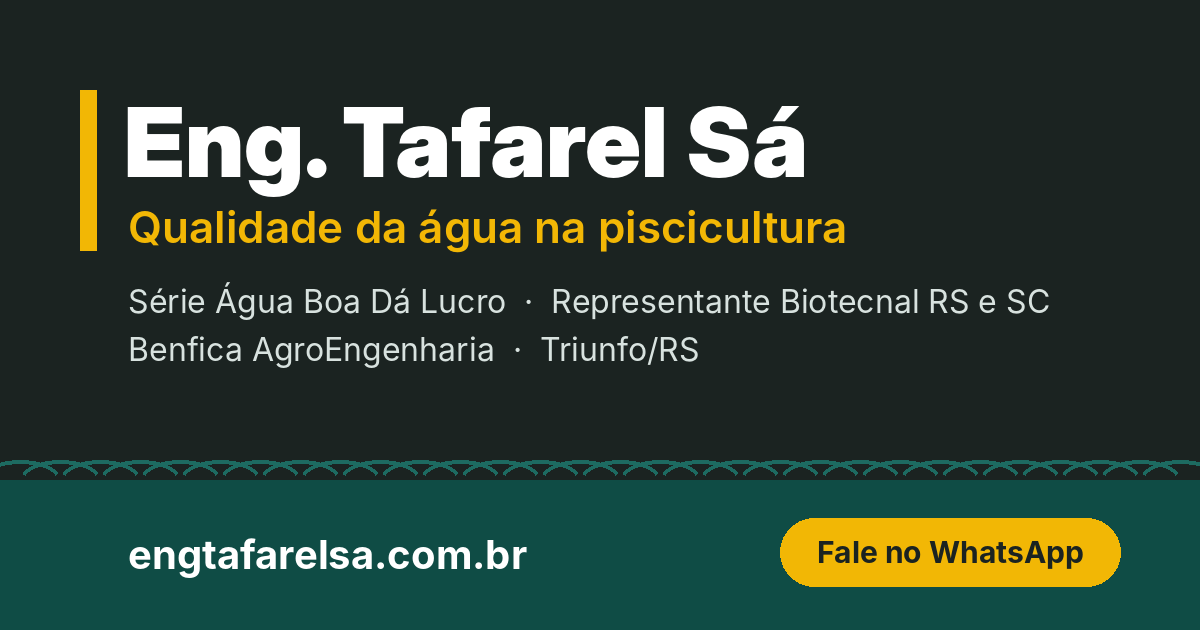
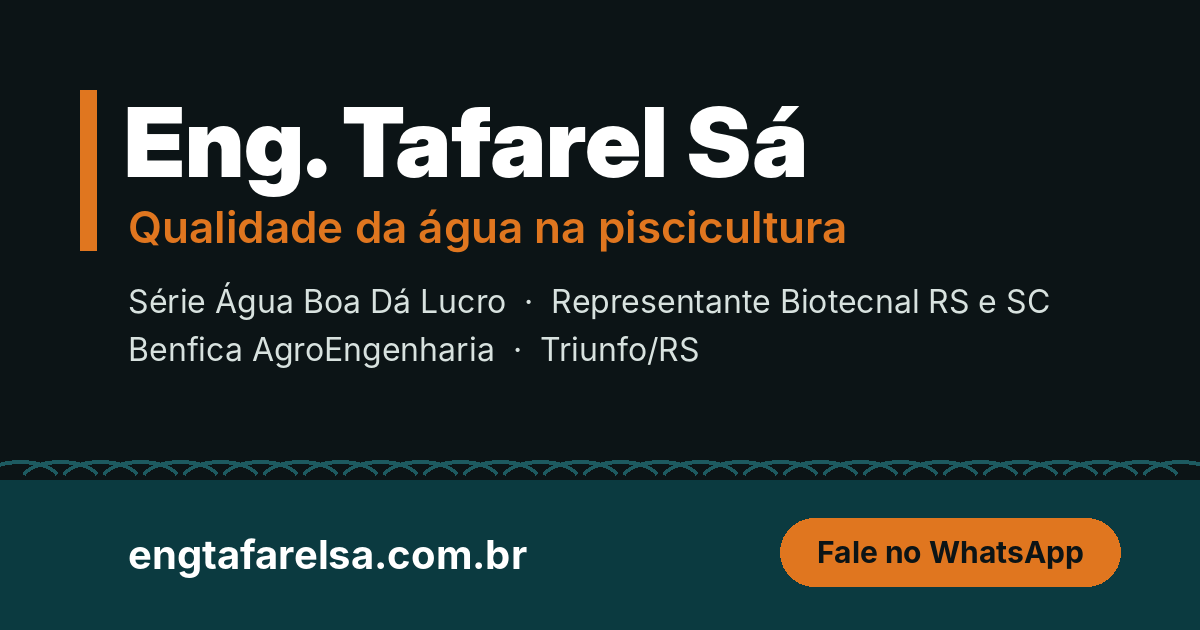
Nova paleta Premium noturno: laranja Biotecnal, creme e água funda; imagem de compartilhamento atualizada
Claude-Session: https://claude.ai/code/session_01UrUJhJswZr6S4F366Tj8NM

Changed region(s): [[0.0617, 0.1206, 0.7092, 0.4222], [0.6475, 0.8143, 0.9558, 0.9349]]

diff --git a/assets/site.css b/assets/site.css
@@ -1,18 +1,18 @@
-/* Eng. Tafarel Sá — site de vendas
-   Paleta: água de viveiro, manta de geomembrana, lona amarela de campo. */
+/* Eng. Tafarel Sá — site de vendas */
 :root {
-  --agua: #0f4c45;
-  --agua-clara: #d8e6e1;
-  --manta: #1b2321;
-  --campo: #f3f5f1;
-  --papel: #ffffff;
-  --lona: #f2b705;
-  --lona-escura: #c99500;
+  /* Paleta "Premium noturno": água funda, creme e o laranja da Biotecnal só onde se clica. */
+  --agua: #0b3a40;
+  --agua-clara: #e7e1d6;
+  --manta: #0c1416;
+  --campo: #f6f2ea;
+  --papel: #fbf8f2;
+  --lona: #e0761f;
+  --lona-escura: #f08a3a;
   --folha: #3e7a3a;
-  --texto: #1e2623;
-  --texto-suave: #4d5a56;
-  --linha: #c9d3cf;
-  --pendente: #fff1c2;
+  --texto: #1a1f1f;
+  --texto-suave: #4f5654;
+  --linha: #d9d1c3;
+  --pendente: #fbe3cc;
 
   --fonte-titulo: "Archivo", "Arial Narrow", system-ui, sans-serif;
   --fonte-texto: "Atkinson Hyperlegible", system-ui, sans-serif;
@@ -432,7 +432,7 @@ p { margin: 0 0 1em; max-width: var(--medida); }
 @media (max-width: 820px) { .calc-grade { grid-template-columns: 1fr; } }
 .calc { display: grid; gap: 6px; background: var(--papel); border: 1px solid var(--linha); padding: 22px; border-radius: var(--raio); }
 .calc label { font-weight: 700; margin-top: 10px; }
-.calc input, .calc select { font: inherit; padding: 12px; border: 1px solid var(--linha); border-radius: var(--raio); background: #fff; color: var(--texto); width: 100%; }
+.calc input, .calc select { font: inherit; padding: 12px; border: 1px solid var(--linha); border-radius: var(--raio); background: var(--papel); color: var(--texto); width: 100%; }
 .calc-resultado { display: grid; gap: 14px; }
 .calc-vol { font-size: 1.3rem; margin: 0; }
 .artigo ol, .artigo ul { max-width: var(--medida); }
@@ -491,7 +491,7 @@ legend.p-passo { padding: 0; }
 .p-grupo[hidden], #p-comum[hidden] { display: none; }
 .p-campo { display: grid; gap: 6px; }
 .p-campo > label, .p-campo legend { font-weight: 700; padding: 0; }
-.p-campo input, .p-campo textarea { font: inherit; padding: 12px; border: 1px solid var(--linha); border-radius: var(--raio); background: #fff; color: var(--texto); width: 100%; }
+.p-campo input, .p-campo textarea { font: inherit; padding: 12px; border: 1px solid var(--linha); border-radius: var(--raio); background: var(--papel); color: var(--texto); width: 100%; }
 .p-chips { display: flex; flex-wrap: wrap; gap: 8px; margin-top: 4px; }
 .p-chip { cursor: pointer; position: relative; }
 .p-chip span { display: inline-block; padding: 10px 14px; border: 1.5px solid var(--linha); border-radius: 999px; background: var(--papel); min-height: 44px; }
@@ -556,7 +556,7 @@ img.foto { width: 100%; height: auto; border-radius: var(--raio); object-fit: co
 
 /* Biotecnal: selos e portfólio */
 .selos { list-style: none; padding: 0; margin: 20px 0; display: grid; grid-template-columns: repeat(auto-fit, minmax(150px, 1fr)); gap: 10px; }
-.selos li { border: 1px solid var(--linha); background: #fff; border-radius: var(--raio); padding: 10px 14px; display: flex; flex-direction: column; }
+.selos li { border: 1px solid var(--linha); background: var(--papel); border-radius: var(--raio); padding: 10px 14px; display: flex; flex-direction: column; }
 .selos strong { font-family: var(--fonte-titulo); color: var(--agua); font-size: 1.05rem; }
 .selos span { color: var(--texto-suave); font-size: .9rem; }
 .divisoes { display: grid; grid-template-columns: repeat(auto-fit, minmax(260px, 1fr)); gap: 16px; }
@@ -564,3 +564,12 @@ img.foto { width: 100%; height: auto; border-radius: var(--raio); object-fit: co
 .divisao ul { padding-left: 18px; margin: 8px 0 16px; }
 .divisao li { margin-bottom: 6px; }
 .divisao a { margin-top: auto; font-weight: 700; }
+
+/* Acabamento premium */
+.botao, .topo-cta, .cat-chip { border-radius: 999px; }
+.portal-hero, .secao-escura { background: radial-gradient(120% 120% at 85% 0%, #123a40 0, var(--manta) 60%); }
+h1, h2 { letter-spacing: -.01em; }
+.botao-zap, .topo-cta { box-shadow: 0 6px 18px rgba(224, 118, 31, .28); }
+.botao-zap:hover, .topo-cta:hover { box-shadow: 0 8px 22px rgba(224, 118, 31, .38); }
+.card-post { box-shadow: 0 1px 0 rgba(12, 20, 22, .04), 0 8px 24px rgba(12, 20, 22, .06); }
+.cartao-autor { background: radial-gradient(120% 80% at 100% 100%, #1d5a60 0, var(--agua) 45%, var(--manta) 100%); }

diff --git a/build.py b/build.py
@@ -251,7 +251,7 @@ def pagina(*, slug, titulo, descricao, corpo, prof=0, msg_zap, ld=None, ativo=No
 <meta property="og:image:height" content="630">
 <meta property="og:image:alt" content="Eng. Tafarel Sá: qualidade da água na piscicultura">
 <meta name="twitter:card" content="summary_large_image">
-<meta name="theme-color" content="#1b2321">
+<meta name="theme-color" content="#0c1416">
 <link rel="preconnect" href="https://fonts.googleapis.com">
 <link rel="preconnect" href="https://fonts.gstatic.com" crossorigin>
 <link href="https://fonts.googleapis.com/css2?family=Archivo:wdth,wght@62..125,700..800&family=Atkinson+Hyperlegible:wght@400;700&display=swap" rel="stylesheet">
